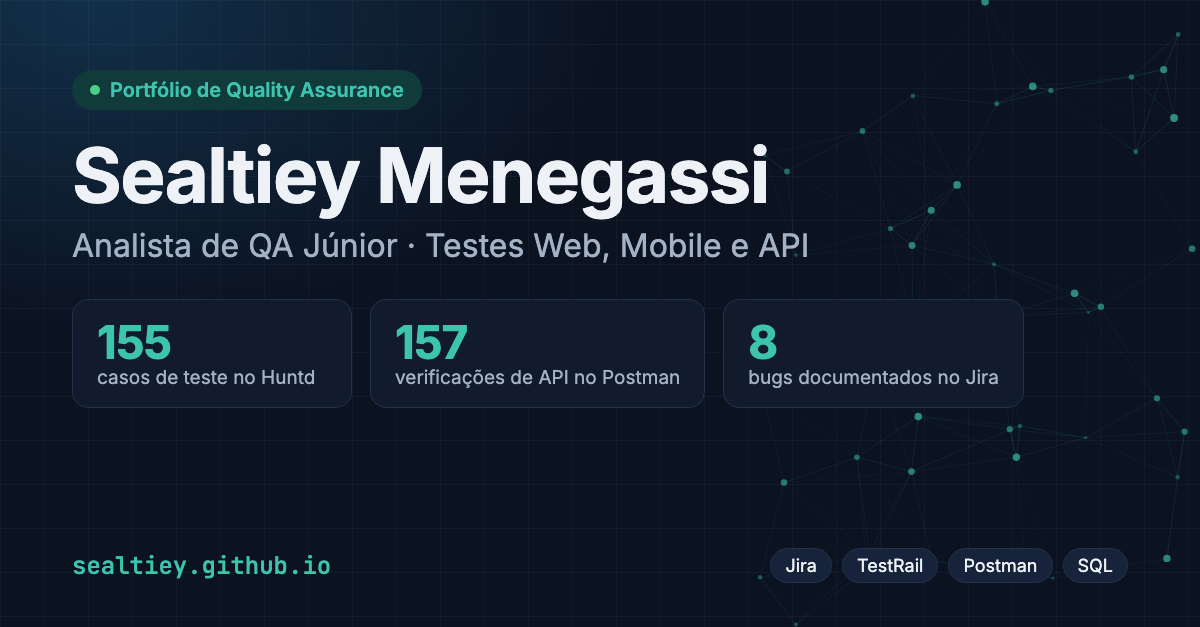
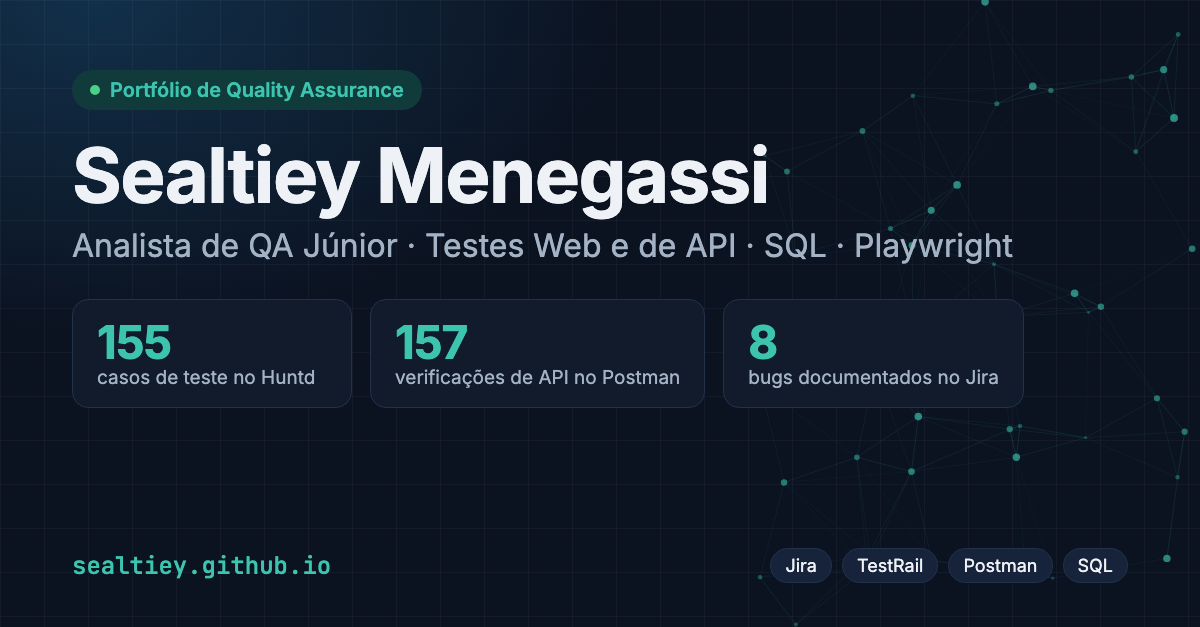
Título sem Ex-Tech Recruiter e capa com foco em web e API

Changed region(s): [[0.4933, 0.3636, 0.6783, 0.4242], [0.7092, 0.3636, 0.8633, 0.4242]]

diff --git a/index.html b/index.html
@@ -4,7 +4,7 @@
 <meta charset="utf-8">
 <meta name="viewport" content="width=device-width, initial-scale=1">
 <title>Sealtiey Menegassi · QA</title>
-<meta name="description" content="Portfólio de Sealtiey Menegassi, Analista de QA Júnior: testes manuais web e testes de API com Postman, SQL, Jira, TestRail e Playwright (em aprendizado). Ex-Tech Recruiter.">
+<meta name="description" content="Portfólio de Sealtiey Menegassi, Analista de QA Júnior: testes manuais web e testes de API com Postman, SQL, Jira, TestRail e Playwright (em aprendizado). Certificação Scrum (SFC).">
 <meta property="og:type" content="profile">
 <meta property="og:title" content="Sealtiey Menegassi · Analista de QA Júnior">
 <meta property="og:description" content="Portfólio de QA: estudo de caso completo do Huntd (155 casos de teste), testes de API do Conduit no Postman (157 verificações), bugs e SQL.">
